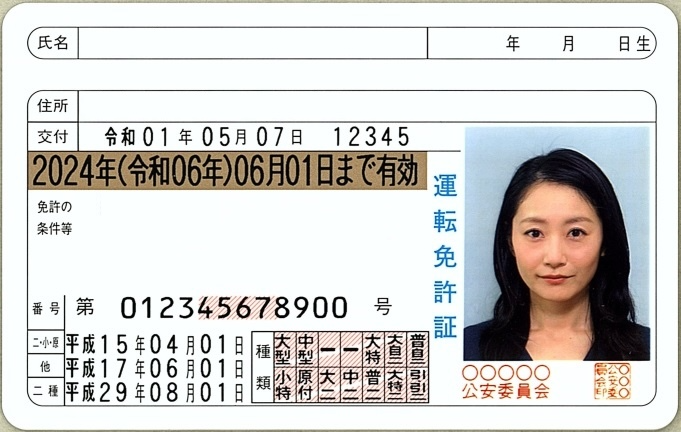
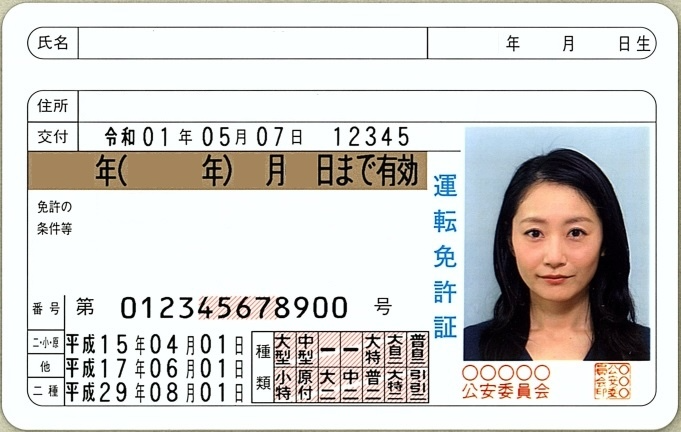
Support individual number card

Changed region(s): [[0.185, 0.3611, 0.3084, 0.4514], [0.3392, 0.3611, 0.4626, 0.4514], [0.0308, 0.3611, 0.1542, 0.4514]]

diff --git a/main.py b/main.py
@@ -1,13 +1,101 @@
 import os
+import csv
+import argparse
+import re
 from typing import Any, Dict, Tuple
 
 from PIL import Image, ImageDraw, ImageFont
 
 
-class DriverLicenseGenerator:
+def format_name_for_driver_license(name: str) -> str:
+    """
+    運転免許証用の姓名フォーマット
+    全角スペースで区切られた姓名を各文字の間に全角スペースを挿入し、
+    姓と名の間に全角スペース2つを挿入した形式に変換する
+
+    Args:
+        name (str): 変換前の名前（「姓　名」形式）
+
+    Returns:
+        str: 変換後の名前（各文字の間に全角スペースを挿入、姓と名の間に全角スペース2つを挿入）
+    """
+    # 全角スペースで分割
+    parts = name.split("　")
+    # 各部分の文字の間に全角スペースを挿入
+    formatted_parts = ["　".join(part) for part in parts]
+    # 姓と名の間に全角スペース2つを挿入
+    return "　　".join(formatted_parts)
+
+
+def format_name_for_individual_number_card(name: str) -> str:
+    """
+    マイナンバーカード用の姓名フォーマット
+    全角スペースで区切られた姓名を姓と名の間に全角スペース1つを挿入した形式に変換する
+
+    Args:
+        name (str): 変換前の名前（「姓　名」形式）
+
+    Returns:
+        str: 変換後の名前（姓と名の間に全角スペース1つを挿入）
+    """
+    # 全角スペースで分割
+    parts = name.split("　")
+    # 姓と名の間に全角スペース1つを挿入
+    return "　".join(parts)
+
+
+def get_filename(name: str, card_type: str) -> str:
+    """
+    姓名からファイル名を生成する
+
+    Args:
+        name (str): 全角スペースで区切られた姓名
+        card_type (str): カードの種類（"運転免許証" または "Individual Number Card"）
+
+    Returns:
+        str: ファイル名（「姓名_カード種類.png」形式）
+    """
+    # 全角スペースを削除
+    return f"{name.replace('　', '')}_{card_type}.png"
+
+
+def convert_to_western_year(year: str) -> str:
+    """
+    和暦を西暦に変換する
+
+    Args:
+        year (str): 和暦（例：令和10年）
+
+    Returns:
+        str: 西暦（4桁の文字列）
+    """
+    # 年号と年数を抽出
+    match = re.match(r'(令和|平成|昭和|大正|明治)(\d+)', year)
+    if not match:
+        return year
+
+    era, year_num = match.groups()
+    year_num = int(year_num)
+
+    # 年号に応じて西暦に変換
+    if era == "令和":
+        return str(year_num + 2018)
+    elif era == "平成":
+        return str(year_num + 1988)
+    elif era == "昭和":
+        return str(year_num + 1925)
+    elif era == "大正":
+        return str(year_num + 1911)
+    elif era == "明治":
+        return str(year_num + 1867)
+    else:
+        return year
+
+
+class CardGenerator:
     def __init__(self, template_path: str, font_path: str):
         """
-        運転免許証生成クラスの初期化
+        カード生成クラスの初期化
 
         Args:
             template_path (str): テンプレート画像のパス
@@ -18,7 +106,7 @@ class DriverLicenseGenerator:
         self.draw = ImageDraw.Draw(self.template)
 
     def add_text(
-        self, text: str, position: Tuple[int, int], font_size: int = 20, color: Tuple[int, int, int] = (0, 0, 0)
+        self, text: str, position: Tuple[int, int], font_size: int, color: Tuple[int, int, int] = (0, 0, 0)
     ):
         """
         画像にテキストを追加
@@ -32,6 +120,8 @@ class DriverLicenseGenerator:
         font = ImageFont.truetype(self.font_path, font_size)
         self.draw.text(position, text, font=font, fill=color)
 
+
+class DriverLicenseGenerator(CardGenerator):
     def generate_license(self, data: Dict[str, Any], output_path: str):
         """
         運転免許証を生成
@@ -40,39 +130,218 @@ class DriverLicenseGenerator:
             data (Dict[str, str]): 運転免許証のデータ
             output_path (str): 出力先のパス
         """
+        config = data["config"]
+
         # 氏名
-        self.add_text(data.get("name", ""), (120, 26))
+        self.add_text(
+            data["name"],
+            config["name"]["position"],
+            config["name"]["font_size"]
+        )
 
         # 住所
-        self.add_text(data.get("address", ""), (100, 90))
+        self.add_text(
+            data["address"],
+            config["address"]["position"],
+            config["address"]["font_size"]
+        )
 
         # 生年月日
-        self.add_text(data.get("birth_date", {}).get("year", ""), (435, 26))
-        self.add_text(data.get("birth_date", {}).get("month", ""), (530, 26))
-        self.add_text(data.get("birth_date", {}).get("day", ""), (590, 26))
+        self.add_text(
+            data["birth_date"]["year"],
+            config["birth_year"]["position"],
+            config["birth_year"]["font_size"]
+        )
+        self.add_text(
+            data["birth_date"]["month"],
+            config["birth_month"]["position"],
+            config["birth_month"]["font_size"]
+        )
+        self.add_text(
+            data["birth_date"]["day"],
+            config["birth_day"]["position"],
+            config["birth_day"]["font_size"]
+        )
+
+        # 有効期限（和暦）
+        self.add_text(
+            data["expired_date"]["year"],
+            config["expired_year"]["position"],
+            config["expired_year"]["font_size"]
+        )
+        # 有効期限（西暦）
+        self.add_text(
+            data["expired_date"]["western_year"],
+            config["expired_year_western"]["position"],
+            config["expired_year_western"]["font_size"]
+        )
+        self.add_text(
+            data["expired_date"]["month"],
+            config["expired_month"]["position"],
+            config["expired_month"]["font_size"]
+        )
+        self.add_text(
+            data["expired_date"]["day"],
+            config["expired_day"]["position"],
+            config["expired_day"]["font_size"]
+        )
+
+        # 画像を保存
+        self.template.save(output_path)
+
+
+class IndividualNumberCardGenerator(CardGenerator):
+    def generate_card(self, data: Dict[str, Any], output_path: str):
+        """
+        マイナンバーカードを生成
+
+        Args:
+            data (Dict[str, str]): マイナンバーカードのデータ
+            output_path (str): 出力先のパス
+        """
+        config = data["config"]
+
+        # 氏名
+        self.add_text(
+            data["name"],
+            config["name"]["position"],
+            config["name"]["font_size"]
+        )
+
+        # 住所
+        self.add_text(
+            data["address"],
+            config["address"]["position"],
+            config["address"]["font_size"]
+        )
+
+        # 生年月日
+        self.add_text(
+            data["birth_date"]["year"],
+            config["birth_year"]["position"],
+            config["birth_year"]["font_size"]
+        )
+        self.add_text(
+            data["birth_date"]["month"],
+            config["birth_month"]["position"],
+            config["birth_month"]["font_size"]
+        )
+        self.add_text(
+            data["birth_date"]["day"],
+            config["birth_day"]["position"],
+            config["birth_day"]["font_size"]
+        )
+
+        # 性別
+        self.add_text(
+            data["sex"],
+            config["sex"]["position"],
+            config["sex"]["font_size"]
+        )
+
+        # 有効期限
+        self.add_text(
+            data["expired_date"]["year"],
+            config["expired_year"]["position"],
+            config["expired_year"]["font_size"]
+        )
+        self.add_text(
+            data["expired_date"]["month"],
+            config["expired_month"]["position"],
+            config["expired_month"]["font_size"]
+        )
+        self.add_text(
+            data["expired_date"]["day"],
+            config["expired_day"]["position"],
+            config["expired_day"]["font_size"]
+        )
 
         # 画像を保存
         self.template.save(output_path)
 
 
 def main():
+    # コマンドライン引数の設定
+    parser = argparse.ArgumentParser(description='運転免許証とマイナンバーカードを生成します')
+    parser.add_argument('csv_file', help='データを含むCSVファイルのパス')
+    args = parser.parse_args()
+
     # テンプレート画像とフォントのパスを設定
-    template_path = "templates/driver_license_template.png"
+    driver_license_template = "templates/driver_license_template.png"
+    individual_number_template = "templates/individual_number_card_template.png"
     font_path = "fonts/NotoSansJP-Regular.ttf"
 
     # 出力ディレクトリの作成
     os.makedirs("output", exist_ok=True)
 
-    # サンプルデータ
-    data = {
-        "name": "山　田　　太　郎",
-        "address": "東京都渋谷区渋谷１−１−１",
-        "birth_date": {"year": "昭和51", "month": "12", "day": "12"},
+    # 運転免許証の設定
+    driver_license_config = {
+        "name": {"position": (100, 26), "font_size": 20},
+        "address": {"position": (90, 90), "font_size": 20},
+        "birth_year": {"position": (440, 26), "font_size": 20},
+        "birth_month": {"position": (530, 26), "font_size": 20},
+        "birth_day": {"position": (590, 26), "font_size": 20},
+        "expired_year_western": {"position": (35, 150), "font_size": 25},
+        "expired_year": {"position": (122, 150), "font_size": 25},
+        "expired_month": {"position": (235, 150), "font_size": 25},
+        "expired_day": {"position": (287, 150), "font_size": 25}
     }
 
-    # 運転免許証の生成
-    generator = DriverLicenseGenerator(template_path, font_path)
-    generator.generate_license(data, "output/driver_license.png")
+    # マイナンバーカードの設定
+    individual_number_config = {
+        "name": {"position": (50, 22), "font_size": 16},
+        "address": {"position": (50, 53), "font_size": 16},
+        "birth_year": {"position": (182, 104), "font_size": 13},
+        "birth_month": {"position": (238.5, 104), "font_size": 13},
+        "birth_day": {"position": (265, 104), "font_size": 13},
+        "sex": {"position": (470, 75), "font_size": 13},
+        "expired_year": {"position": (314, 103), "font_size": 13},
+        "expired_month": {"position": (370, 103), "font_size": 13},
+        "expired_day": {"position": (400, 103), "font_size": 13}
+    }
+
+    # CSVファイルからデータを読み込む
+    with open(args.csv_file, 'r', encoding='utf-8') as f:
+        reader = csv.DictReader(f)
+        for row in reader:
+            name = row["name"]
+            base_data = {
+                "name": format_name_for_driver_license(name),
+                "address": row["address"],
+                "birth_date": {
+                    "year": row["birth_year"],
+                    "month": row["birth_month"],
+                    "day": row["birth_day"]
+                },
+                "sex": row["sex"],
+                "expired_date": {
+                    "year": row["expired_year"],
+                    "western_year": convert_to_western_year(row["expired_year"]),
+                    "month": row["expired_month"],
+                    "day": row["expired_day"]
+                }
+            }
+
+            # 運転免許証用のデータを準備
+            driver_license_data = base_data.copy()
+            driver_license_data["config"] = driver_license_config
+
+            # 運転免許証の生成
+            driver_license_generator = DriverLicenseGenerator(driver_license_template, font_path)
+            driver_license_path = os.path.join("output", get_filename(name, "運転免許証"))
+            driver_license_generator.generate_license(driver_license_data, driver_license_path)
+            print(f"運転免許証生成完了: {driver_license_path}")
+
+            # マイナンバーカード用のデータを準備
+            individual_number_data = base_data.copy()
+            individual_number_data["name"] = format_name_for_individual_number_card(name)
+            individual_number_data["config"] = individual_number_config
+
+            # マイナンバーカードの生成
+            individual_number_generator = IndividualNumberCardGenerator(individual_number_template, font_path)
+            individual_number_path = os.path.join("output", get_filename(name, "Individual Number Card"))
+            individual_number_generator.generate_card(individual_number_data, individual_number_path)
+            print(f"マイナンバーカード生成完了: {individual_number_path}")
 
 
 if __name__ == "__main__":
